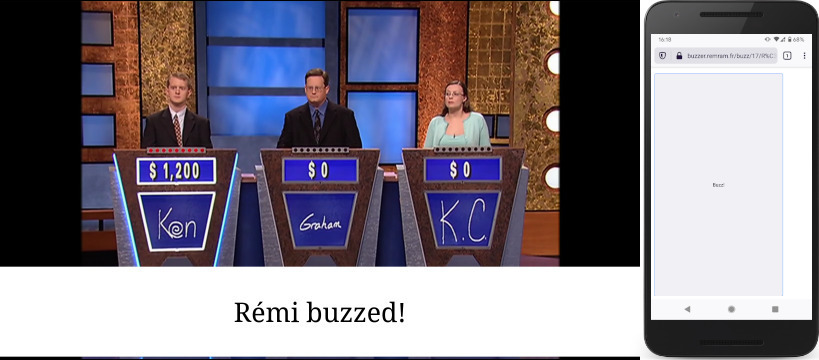
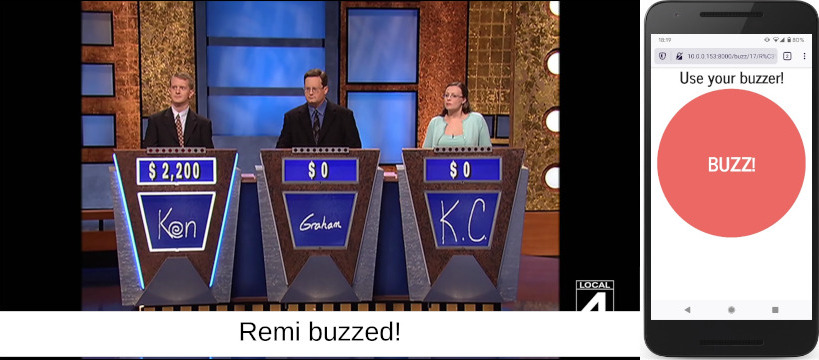
Update screenshot

diff --git a/README.md b/README.md
@@ -26,7 +26,7 @@ Status
 * [x] Can join a game and buzz
 * [x] Buzzing stops the video, displays name of player
 * [x] Allow full-screening video, make buzzer big
-* [ ] Make interface pretty and user-friendly
+* [x] Make interface pretty and user-friendly
 
 How to run
 ----------
